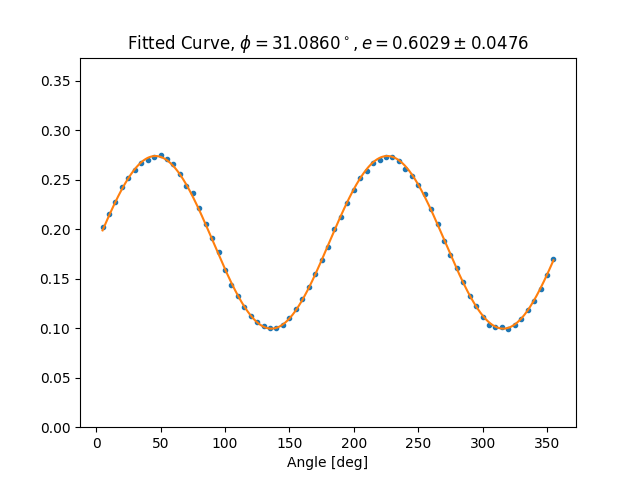
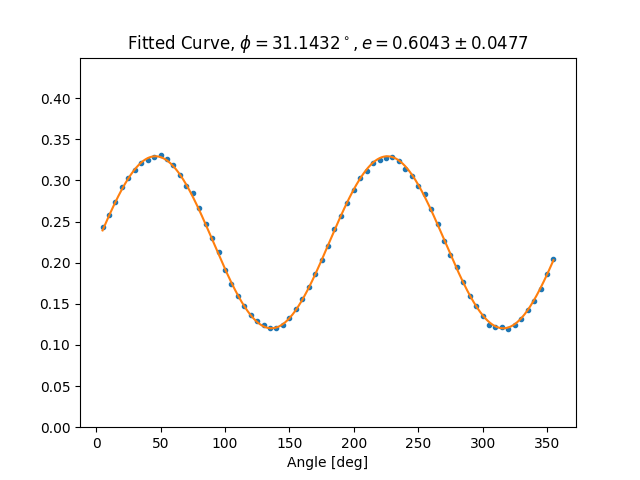
angle tuning mirror mount

diff --git a/Polarization_calc.py b/Polarization_calc.py
@@ -38,19 +38,27 @@ def pull_T_data(filename):
     file.readline()
     full_rot = 0
     i = -1
+
+    previous_angle = None
+
     for line in file:
         i+=1
         line = list(map(float,line.strip().split(',')))
-        angles_deg.append(line[0]+full_rot*360)
-        data.append(np.mean(line[1:-1]))
-        std_dev.append(np.std(line[1:-1]))
-        if i < 20:
-            if angles_deg[i] >270:
-                angles_deg[i]-=360
-        if i!=0:
-            if angles_deg[i]<angles_deg[i-1]:
+
+        angle = line[0]
+
+        if i < 20 and angle > 270:
+            angle -=360
+        if previous_angle is not None:
+            if angle < previous_angle: # cannot compare against corrected values !
                 full_rot +=1
-                angles_deg[i] += 360
+
+        previous_angle = angle
+
+        angles_deg.append(angle + full_rot * 360)
+        data.append(np.mean(line[1:-2])) # last 2 rows are time + intended angle
+        std_dev.append(np.std(line[1:-2])) # last 2 rows are time + intended angle
+        
     angles_rad = list(map(lambda x: x*np.pi/180,angles_deg))
     return angles_deg, angles_rad, data, std_dev
 
@@ -202,8 +210,14 @@ class pol_analysis:
         # Traditional error propgation using resolution + covariance (?)
         
         phi = self.param[0]
-        sigma_phi = 2*np.pi/180 # \pm 2 degrees resolution?
-        sigma_phi_2 = np.sqrt(self.param_cov[0,0]) # covariance of fitting phi (independent? quadrature?)
+        delta_phi = 2*np.pi/180 # \pm 2 degrees resolution?
+
+        # handling discontinuity at phi = 0
+        if not (np.isfinite(self.param_cov[0,0])) or np.sqrt(self.param_cov[0,0]) > delta_phi:
+            sigma_phi = 0
+            print("Warning: fit uncertainty too high to use. Only using resolution of measurement.")
+        else:        
+            sigma_phi = np.sqrt(self.param_cov[0,0]) # covariance of fitting phi (independent? quadrature?)
 
         c = np.abs(np.cos(2*phi)) # factor for ellip calculation below
         ellip = np.sqrt((1-c) / (1+c))
@@ -213,7 +227,7 @@ class pol_analysis:
             deriv = 1.0
         else:
             deriv = (2 * np.abs(np.sin(2 * phi)) / (np.sqrt(1 - c) * (1 + c)**1.5))
-        ellip_unc = np.sqrt((deriv * sigma_phi)**2 + (sigma_phi_2)**2)
+        ellip_unc = np.sqrt((deriv * delta_phi)**2 + (deriv *sigma_phi)**2)
 
         return ellip, ellip_unc
 
